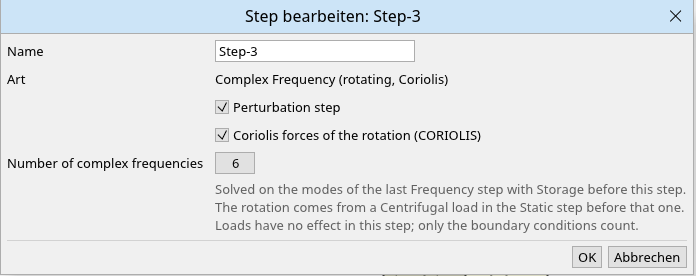
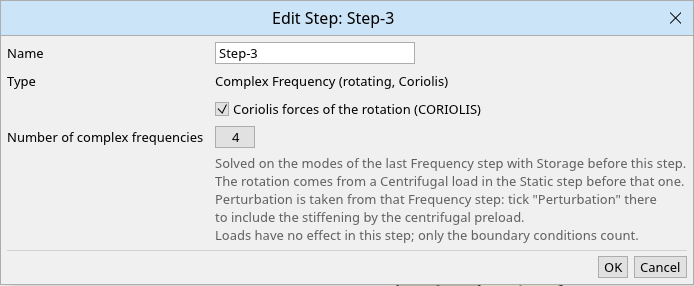
Complex frequency step takes Perturbation from the stored frequency step
CalculiX stops with "the .eig-file was created without perturbation info"
unless the *STEP card of a *COMPLEX FREQUENCY step has the same
PERTURBATION parameter as the *FREQUENCY step that stored the modes.
prepolix defaulted the complex step to perturbation on and the frequency
step to off, so a default rotor model failed. The complex step now has no
flag of its own; the writer takes the one of the stored frequency step.

Claude-Session: https://claude.ai/code/session_01Xy33t1zsf8KZm31ysfpYjt

diff --git a/crates/plx-io/src/inp/write.rs b/crates/plx-io/src/inp/write.rs
@@ -309,8 +309,10 @@ pub fn model_keywords(
     let steps = model
         .steps
         .iter()
-        .map(|step| {
+        .enumerate()
+        .map(|(s, step)| {
             let context = StepContext {
+                stored_perturbation: stored_perturbation(&model.steps[..s]),
                 extra_boundary: generated.boundary.as_ref(),
                 space,
                 lines: &lines,
@@ -1413,6 +1415,19 @@ struct StepContext<'a> {
     /// The model has shells: results are written at the shell nodes (`Output=2D`) rather
     /// than at the nodes CalculiX expands them to, so they fit the mesh.
     shells: bool,
+    /// `*STEP, PERTURBATION` of the frequency step whose stored modes a complex frequency
+    /// step uses; CalculiX stops when the two differ.
+    stored_perturbation: bool,
+}
+
+/// The perturbation flag of the last active frequency step with storage among `before`.
+fn stored_perturbation(before: &[Step]) -> bool {
+    (before.iter().rev().filter(|s| s.active))
+        .find_map(|s| match &s.kind {
+            StepKind::Frequency(f) if f.storage => Some(f.perturbation),
+            _ => None,
+        })
+        .unwrap_or(false)
 }
 
 /// A step as PrePoMax structures it: the step title holds `*Step`, which holds the procedure
@@ -1429,6 +1444,7 @@ fn write_step(sets: &mut Sets, step: &Step, context: &StepContext) -> Result<Key
         amplitudes,
         pair_surfaces,
         shells,
+        stored_perturbation,
     } = context;
     // Nodes of 2D models move in the x-y plane only; CalculiX fails on rotations there.
     let dofs = if space.is_2d() { 2 } else { 6 };
@@ -1438,7 +1454,9 @@ fn write_step(sets: &mut Sets, step: &Step, context: &StepContext) -> Result<Key
     let (header, procedure) = match &step.kind {
         StepKind::Static(settings) => static_step(settings),
         StepKind::Frequency(settings) => frequency_step(settings),
-        StepKind::ComplexFrequency(settings) => complex_frequency_step(settings),
+        StepKind::ComplexFrequency(settings) => {
+            complex_frequency_step(settings, stored_perturbation)
+        }
         StepKind::Buckle(settings) => buckle_step(settings),
         StepKind::HeatTransfer(settings) => heat_transfer_step(settings, "*Heat transfer", false),
         StepKind::CoupledTempDisp(settings) => {
@@ -2136,10 +2154,11 @@ fn frequency_step(settings: &FrequencyStep) -> (String, String) {
 }
 
 /// The `*Step` line and the procedure keyword of a complex frequency step, as PrePoMax's
-/// `CalComplexFrequency` writes them.
-fn complex_frequency_step(settings: &ComplexFrequencyStep) -> (String, String) {
+/// `CalComplexFrequency` writes them. `perturbation` is the flag of the frequency step that
+/// stored the modes: CalculiX requires the same on both `*STEP` cards.
+fn complex_frequency_step(settings: &ComplexFrequencyStep, perturbation: bool) -> (String, String) {
     let mut header = String::from("*Step");
-    if settings.perturbation {
+    if perturbation {
         header.push_str(", Perturbation");
     }
     header.push('\n');

diff --git a/crates/plx-io/src/inp/write/tests.rs b/crates/plx-io/src/inp/write/tests.rs
@@ -3994,9 +3994,43 @@ fn a_complex_frequency_step_is_written_like_prepomax_does() {
         unreachable!()
     };
     settings.coriolis = false;
+    let StepKind::Frequency(settings) = &mut model.steps[1].kind else {
+        unreachable!()
+    };
     settings.perturbation = false;
     let text = write_inp(&mesh, &model, "").unwrap();
     assert!(text.contains("*Step\n*Complex frequency\n4\n"), "{text}");
+}
+
+#[test]
+fn the_complex_frequency_step_takes_perturbation_from_the_stored_frequency_step() {
+    // CalculiX stops ("the .eig-file was created without perturbation info") unless both
+    // steps agree; a rotor without prestress in the frequency step must solve as well.
+    for perturbation in [false, true] {
+        let (mesh, mut model) = rotor_analysis(100.0);
+        let StepKind::Frequency(settings) = &mut model.steps[1].kind else {
+            unreachable!()
+        };
+        settings.perturbation = perturbation;
+        let text = write_inp(&mesh, &model, "").unwrap();
+        let complex = &text[text.find("** Step-3").unwrap()..];
+        let header = if perturbation {
+            "*Step, Perturbation\n"
+        } else {
+            "*Step\n"
+        };
+        assert!(
+            complex.contains(&format!("{header}*Complex frequency, Coriolis\n")),
+            "{complex}"
+        );
+        let Some(frd) = run_ccx(&format!("rotor-perturbation-{perturbation}"), &text) else {
+            return;
+        };
+        let whirling = (frd.increments.iter())
+            .filter(|i| i.kind == plx_results::AnalysisKind::ComplexFrequency)
+            .count();
+        assert_eq!(whirling, 4);
+    }
 }
 
 #[test]

diff --git a/crates/plx-app/src/setup.rs b/crates/plx-app/src/setup.rs
@@ -3256,11 +3256,9 @@ fn frequency_form(ui: &mut Ui, settings: &mut FrequencyStep, units: UnitSystem) 
 }
 
 /// Settings of a complex frequency step, PrePoMax's dialog: the number of modes; the Coriolis
-/// option and the perturbation flag are CalculiX's, with a hint at what the step builds on.
+/// option is CalculiX's, with a hint at what the step builds on. The perturbation flag is the
+/// one of the Frequency step, since CalculiX requires the same on both steps.
 fn complex_frequency_form(ui: &mut Ui, settings: &mut ComplexFrequencyStep) {
-    ui.label("");
-    ui.checkbox(&mut settings.perturbation, "Perturbation step");
-    ui.end_row();
     ui.label("");
     ui.checkbox(
         &mut settings.coriolis,
@@ -3274,6 +3272,8 @@ fn complex_frequency_form(ui: &mut Ui, settings: &mut ComplexFrequencyStep) {
     ui.weak(
         "Solved on the modes of the last Frequency step with Storage before this step.\n\
          The rotation comes from a Centrifugal load in the Static step before that one.\n\
+         Perturbation is taken from that Frequency step: tick \"Perturbation\" there\n\
+         to include the stiffening by the centrifugal preload.\n\
          Loads have no effect in this step; only the boundary conditions count.",
     );
     ui.end_row();

diff --git a/crates/plx-model/src/lib.rs b/crates/plx-model/src/lib.rs
@@ -1011,14 +1011,16 @@ impl Default for FrequencyStep {
 /// Settings of a `*COMPLEX FREQUENCY` step, with PrePoMax's defaults. CalculiX solves it on
 /// the eigenmodes of the last frequency step with [`FrequencyStep::storage`]; the Coriolis
 /// forces come from the centrifugal load of the static step before that frequency step.
+///
+/// The step has no perturbation flag of its own: CalculiX stops unless `*STEP, PERTURBATION`
+/// of this step matches the one of the frequency step that stored the modes, so the writer
+/// takes [`FrequencyStep::perturbation`] of that step.
 #[derive(Clone, Debug, PartialEq, Serialize, Deserialize)]
 pub struct ComplexFrequencyStep {
     /// Number of complex eigenfrequencies to compute.
     pub num_frequencies: u32,
     /// Coriolis forces of the rotation (`CORIOLIS`); the usual reason for the step.
     pub coriolis: bool,
-    /// `*STEP, PERTURBATION`, as PrePoMax offers it for this step.
-    pub perturbation: bool,
 }
 
 impl Default for ComplexFrequencyStep {
@@ -1026,7 +1028,6 @@ impl Default for ComplexFrequencyStep {
         Self {
             num_frequencies: 10,
             coriolis: true,
-            perturbation: true,
         }
     }
 }
